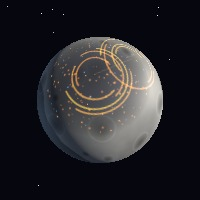
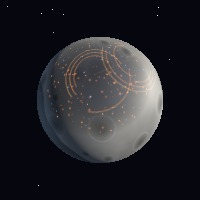
Share full galaxy planet viz with buddies and alliance members.
Strangers get sparse bare previews; friends and same-alliance colonies expose inventory, fields, and activity layers on hover.

diff --git a/scripts/game/galaxy-planet-preview.js b/scripts/game/galaxy-planet-preview.js
@@ -70,6 +70,10 @@
 		return previewCanvas;
 	}
 
+	function hasSharedPlanetIntel(data) {
+		return !!(data && data.fields && data.fields.max > 0);
+	}
+
 	function startPreview(trigger) {
 		var vizJson = $(trigger).attr('data-planet-viz');
 		if (!vizJson || isMobileTooltip()) {
@@ -99,7 +103,10 @@
 			if (activeTrigger !== trigger) {
 				return;
 			}
-			window.HiveNovaOverviewPlanet.mountPreview(canvas, data, { size: 75 }).then(function (ok) {
+			window.HiveNovaOverviewPlanet.mountPreview(canvas, data, {
+				size: 75,
+				lite: !hasSharedPlanetIntel(data)
+			}).then(function (ok) {
 				if (!ok || activeTrigger !== trigger) {
 					cleanupPreview();
 					return;

diff --git a/scripts/game/overview-planet.js b/scripts/game/overview-planet.js
@@ -2222,7 +2222,7 @@
 				enableZoom: false,
 				fixedSize: options.size || 96,
 				preview: true,
-				lite: true,
+				lite: options.lite !== false,
 				onBootComplete: finish
 			});
 			if (!ok) {

diff --git a/scripts/game/planet-viz-payload.js b/scripts/game/planet-viz-payload.js
@@ -91,7 +91,7 @@
 				}
 			});
 			if (data.fields.max < 1) {
-				var allowZeroFields = options.sparse && data.vizState === 'unknown';
+				var allowZeroFields = options.sparse;
 				if (!allowZeroFields) {
 					errors.push('fields.max must be at least 1');
 				}

diff --git a/tests/Unit/GalaxyRowsVizJsonTest.php b/tests/Unit/GalaxyRowsVizJsonTest.php
@@ -18,7 +18,7 @@ class GalaxyRowsVizJsonTest extends TestCase
 		}
 	}
 
-	private function invokeBuildPlanetVizJson(array $galaxyRow, bool $ownPlanet, string $themePath): string
+	private function invokeBuildPlanetVizJson(array $galaxyRow, bool $shareIntel, string $themePath): string
 	{
 		global $resource, $reslist;
 
@@ -34,10 +34,10 @@ class GalaxyRowsVizJsonTest extends TestCase
 		$method = new ReflectionMethod(GalaxyRows::class, 'buildPlanetVizJson');
 		$method->setAccessible(true);
 
-		return $method->invoke($rows, $ownPlanet, $themePath);
+		return $method->invoke($rows, $shareIntel, $themePath);
 	}
 
-	private function invokeBuildMoonVizJson(array $galaxyRow, bool $ownPlanet, string $themePath): string
+	private function invokeBuildMoonVizJson(array $galaxyRow, bool $shareIntel, string $themePath): string
 	{
 		$rows = new GalaxyRows();
 		$ref = new ReflectionObject($rows);
@@ -48,7 +48,30 @@ class GalaxyRowsVizJsonTest extends TestCase
 		$method = new ReflectionMethod(GalaxyRows::class, 'buildMoonVizJson');
 		$method->setAccessible(true);
 
-		return $method->invoke($rows, $ownPlanet, $themePath);
+		return $method->invoke($rows, $shareIntel, $themePath);
+	}
+
+	private function invokeHasSharedPlanetVizIntel(array $galaxyRow, bool $ownPlanet, array $user): bool
+	{
+		$rows = new GalaxyRows();
+		$ref = new ReflectionObject($rows);
+		$galaxyRowProp = $ref->getProperty('galaxyRow');
+		$galaxyRowProp->setAccessible(true);
+		$galaxyRowProp->setValue($rows, $galaxyRow);
+
+		$galaxyDataProp = $ref->getProperty('galaxyData');
+		$galaxyDataProp->setAccessible(true);
+		$galaxyDataProp->setValue($rows, [
+			$galaxyRow['planet'] => ['ownPlanet' => $ownPlanet],
+		]);
+
+		global $USER;
+		$USER = $user;
+
+		$method = new ReflectionMethod(GalaxyRows::class, 'hasSharedPlanetVizIntel');
+		$method->setAccessible(true);
+
+		return (bool) $method->invoke($rows);
 	}
 
 	private function decodePayload(string $json): array
@@ -122,7 +145,7 @@ class GalaxyRowsVizJsonTest extends TestCase
 		$this->assertJsContractValidJson($json);
 	}
 
-	public function testOtherPlanetPayloadIsSparseUnknown(): void
+	public function testOtherPlanetPayloadIsSparsePublic(): void
 	{
 		$json = $this->invokeBuildPlanetVizJson([
 			'image'         => 'wasserplanet04',
@@ -141,9 +164,74 @@ class GalaxyRowsVizJsonTest extends TestCase
 		$payload = $this->decodePayload($json);
 
 		$this->assertSame(['current' => 0, 'max' => 0], $payload['fields']);
-		$this->assertSame('unknown', $payload['vizState']);
+		$this->assertArrayNotHasKey('vizState', $payload);
 		$this->assertSame([], (array) $payload['buildings']);
 		$this->assertJsContractValidJson($json, ['sparse' => true]);
+	}
+
+	public function testFriendlyPlanetPayloadIncludesFieldsAndInventory(): void
+	{
+		$json = $this->invokeBuildPlanetVizJson([
+			'image'          => 'normaltempplanet03',
+			'temp_min'       => 30,
+			'temp_max'       => 70,
+			'diameter'       => 12767,
+			'field_current'  => 55,
+			'field_max'      => 163,
+			'terraformer'    => 1,
+			'metal_mine'     => 8,
+			'light_fighter'  => 2,
+			'galaxy'         => 1,
+			'system'         => 88,
+			'planet'         => 7,
+			'der_metal'      => 0,
+			'der_crystal'    => 0,
+		], true, './styles/theme/hive/');
+		$payload = $this->decodePayload($json);
+
+		$this->assertSame(['current' => 55, 'max' => 168], $payload['fields']);
+		$this->assertSame(8, $payload['buildings'][1]);
+		$this->assertSame(2, $payload['fleet'][202]);
+		$this->assertJsContractValidJson($json);
+	}
+
+	public function testHasSharedPlanetVizIntelForBuddyAndAlliance(): void
+	{
+		$row = [
+			'planet'    => 5,
+			'id_owner'  => 42,
+			'buddy'     => 1,
+			'ally_id'   => 0,
+		];
+		$user = ['id' => 7, 'ally_id' => 0];
+
+		$this->assertTrue($this->invokeHasSharedPlanetVizIntel($row, false, $user));
+
+		$row['buddy'] = 0;
+		$row['ally_id'] = 9;
+		$user['ally_id'] = 9;
+		$this->assertTrue($this->invokeHasSharedPlanetVizIntel($row, false, $user));
+
+		$row['ally_id'] = 9;
+		$user['ally_id'] = 3;
+		$this->assertFalse($this->invokeHasSharedPlanetVizIntel($row, false, $user));
+	}
+
+	public function testFriendlyMoonVizJsonIncludesMoonBase(): void
+	{
+		$json = $this->invokeBuildMoonVizJson([
+			'm_temp_min'   => -50,
+			'm_temp_max'   => -10,
+			'm_diameter'   => 4200,
+			'm_mondbasis'  => 4,
+			'galaxy'       => 1,
+			'system'       => 88,
+			'planet'       => 7,
+		], true, './styles/theme/hive/');
+		$payload = $this->decodePayload($json);
+
+		$this->assertSame(4, $payload['buildings'][41]);
+		$this->assertJsContractValidJson($json);
 	}
 
 	public function testOwnMoonVizJsonIncludesMoonBaseWithoutUnknownState(): void
@@ -166,7 +254,7 @@ class GalaxyRowsVizJsonTest extends TestCase
 		$this->assertJsContractValidJson($json);
 	}
 
-	public function testOtherMoonVizJsonUsesUnknownSpyState(): void
+	public function testOtherMoonVizJsonOmitsVizStateAndInventory(): void
 	{
 		$json = $this->invokeBuildMoonVizJson([
 			'm_temp_min'   => -50,
@@ -179,7 +267,7 @@ class GalaxyRowsVizJsonTest extends TestCase
 		], false, './styles/theme/hive/');
 		$payload = $this->decodePayload($json);
 
-		$this->assertSame('unknown', $payload['vizState']);
+		$this->assertArrayNotHasKey('vizState', $payload);
 		$this->assertSame([], (array) $payload['buildings']);
 		$this->assertJsContractValidJson($json, ['sparse' => true]);
 	}

diff --git a/includes/classes/GalaxyRows.php b/includes/classes/GalaxyRows.php
@@ -68,7 +68,8 @@ class GalaxyRows
 		LEFT JOIN %%ALLIANCE%% a ON a.id = u.ally_id
 		LEFT JOIN %%DIPLO%% as d ON d.accept = 1 AND ((d.owner_1 = :allianceId AND d.owner_2 = a.id) OR (d.owner_1 = a.id AND d.owner_2 = :allianceId))
 		LEFT JOIN %%STATPOINTS%% allys ON allys.stat_type = :statTypeAlliance AND allys.id_owner = a.id
-		LEFT JOIN %%BUDDY%% buddy ON (buddy.sender = :userId AND buddy.owner = u.id) OR (buddy.sender = u.id AND buddy.owner = :userId)
+		LEFT JOIN %%BUDDY%% buddy ON ((buddy.sender = :userId AND buddy.owner = u.id) OR (buddy.sender = u.id AND buddy.owner = :userId))
+			AND NOT EXISTS (SELECT 1 FROM %%BUDDY_REQUEST%% br WHERE br.id = buddy.id)
 		WHERE p.universe = :universe AND p.galaxy = :galaxy AND p.system = :system AND p.planet_type = :planetTypePlanet
 		GROUP BY p.id;';
 
@@ -300,6 +301,33 @@ class GalaxyRows
 		}
 	}
 
+	protected function hasSharedPlanetVizIntel(): bool
+	{
+		global $USER;
+
+		if ($this->galaxyData[$this->galaxyRow['planet']]['ownPlanet']) {
+			return true;
+		}
+
+		if (empty($this->galaxyRow['id_owner']) || (int) $this->galaxyRow['id_owner'] === (int) $USER['id']) {
+			return false;
+		}
+
+		if ((int) ($this->galaxyRow['buddy'] ?? 0) > 0) {
+			return true;
+		}
+
+		if (
+			!empty($USER['ally_id'])
+			&& !empty($this->galaxyRow['ally_id'])
+			&& (int) $USER['ally_id'] === (int) $this->galaxyRow['ally_id']
+		) {
+			return true;
+		}
+
+		return false;
+	}
+
 	protected function getMoonData()
 	{		
 		global $THEME;
@@ -316,7 +344,7 @@ class GalaxyRows
 				'temp_max'	=> $this->galaxyRow['m_temp_max'],
 				'diameter'	=> $this->galaxyRow['m_diameter'],
 				'vizJson'	=> $vizEnabled
-					? $this->buildMoonVizJson($this->galaxyData[$this->galaxyRow['planet']]['ownPlanet'], $themePath)
+					? $this->buildMoonVizJson($this->hasSharedPlanetVizIntel(), $themePath)
 					: '',
 			);
 		}
@@ -326,7 +354,7 @@ class GalaxyRows
 	{
 		global $THEME;
 
-		$ownPlanet = $this->galaxyData[$this->galaxyRow['planet']]['ownPlanet'];
+		$shareIntel = $this->hasSharedPlanetVizIntel();
 		$themePath = $THEME->getTheme();
 		$vizEnabled = str_contains($themePath, '/hive/');
 		$this->galaxyData[$this->galaxyRow['planet']]['planet']	= array(
@@ -334,7 +362,7 @@ class GalaxyRows
 			'name'			=> htmlspecialchars((string) $this->galaxyRow['name'], ENT_QUOTES, "UTF-8"),
 			'image'			=> $this->galaxyRow['image'],
 			'phalanx'		=> isModuleAvailable(MODULE_PHALANX) && ShowPhalanxPage::allowPhalanx($this->galaxyRow['galaxy'], $this->galaxyRow['system']),
-			'vizJson'		=> $vizEnabled ? $this->buildPlanetVizJson($ownPlanet, $themePath) : '',
+			'vizJson'		=> $vizEnabled ? $this->buildPlanetVizJson($shareIntel, $themePath) : '',
 		);
 	}
 
@@ -373,9 +401,9 @@ class GalaxyRows
 		return is_array($row) ? $row : array();
 	}
 
-	protected function resolveInventoryRow(bool $ownPlanet): array
+	protected function resolveInventoryRow(bool $shareIntel): array
 	{
-		if (!$ownPlanet || empty($this->galaxyRow['id'])) {
+		if (!$shareIntel || empty($this->galaxyRow['id'])) {
 			return $this->galaxyRow;
 		}
 
@@ -402,14 +430,14 @@ class GalaxyRows
 		return $map ?: new \stdClass();
 	}
 
-	protected function buildPlanetVizJson($ownPlanet, $dpath)
+	protected function buildPlanetVizJson($shareIntel, $dpath)
 	{
 		global $resource, $reslist;
 
-		$inventoryRow = $this->resolveInventoryRow($ownPlanet);
+		$inventoryRow = $this->resolveInventoryRow($shareIntel);
 		$fieldsCurrent = 0;
 		$fieldsMax = 0;
-		if ($ownPlanet) {
+		if ($shareIntel) {
 			$fieldsCurrent = (int) $this->galaxyRow['field_current'];
 			$planetForFields = array(
 				'field_max' => (int) $this->galaxyRow['field_max'],
@@ -450,9 +478,9 @@ class GalaxyRows
 			'galaxy'    => (int) $this->galaxyRow['galaxy'],
 			'system'    => (int) $this->galaxyRow['system'],
 			'planet'    => (int) $this->galaxyRow['planet'],
-			'buildings' => $ownPlanet ? $this->buildCountMap($reslist['build'], $inventoryRow) : new \stdClass(),
-			'fleet'     => $ownPlanet ? $this->buildCountMap($reslist['fleet'], $inventoryRow) : new \stdClass(),
-			'defense'   => $ownPlanet ? $this->buildCountMap($reslist['defense'], $inventoryRow) : new \stdClass(),
+			'buildings' => $shareIntel ? $this->buildCountMap($reslist['build'], $inventoryRow) : new \stdClass(),
+			'fleet'     => $shareIntel ? $this->buildCountMap($reslist['fleet'], $inventoryRow) : new \stdClass(),
+			'defense'   => $shareIntel ? $this->buildCountMap($reslist['defense'], $inventoryRow) : new \stdClass(),
 			'queue'     => array(
 				'building' => 0,
 				'hangar'   => 0,
@@ -462,14 +490,10 @@ class GalaxyRows
 			'dpath'     => $dpath,
 		);
 
-		if (!$ownPlanet) {
-			$payload['vizState'] = 'unknown';
-		}
-
 		return json_encode($payload, JSON_HEX_TAG | JSON_HEX_APOS | JSON_HEX_QUOT | JSON_HEX_AMP);
 	}
 
-	protected function buildMoonVizJson($ownPlanet, $dpath)
+	protected function buildMoonVizJson($shareIntel, $dpath)
 	{
 		$tempMin = (int) $this->galaxyRow['m_temp_min'];
 		$tempMax = (int) $this->galaxyRow['m_temp_max'];
@@ -478,7 +502,7 @@ class GalaxyRows
 		}
 
 		$moonBaseLevel = (int) ($this->galaxyRow['m_mondbasis'] ?? 0);
-		$buildings = ($ownPlanet && $moonBaseLevel > 0) ? array(41 => $moonBaseLevel) : new \stdClass();
+		$buildings = ($shareIntel && $moonBaseLevel > 0) ? array(41 => $moonBaseLevel) : new \stdClass();
 
 		$payload = array(
 			'texture'   => 'mond',
@@ -504,10 +528,6 @@ class GalaxyRows
 			'debris'    => null,
 			'dpath'     => $dpath,
 		);
-
-		if (!$ownPlanet) {
-			$payload['vizState'] = 'unknown';
-		}
 
 		return json_encode($payload, JSON_HEX_TAG | JSON_HEX_APOS | JSON_HEX_QUOT | JSON_HEX_AMP);
 	}